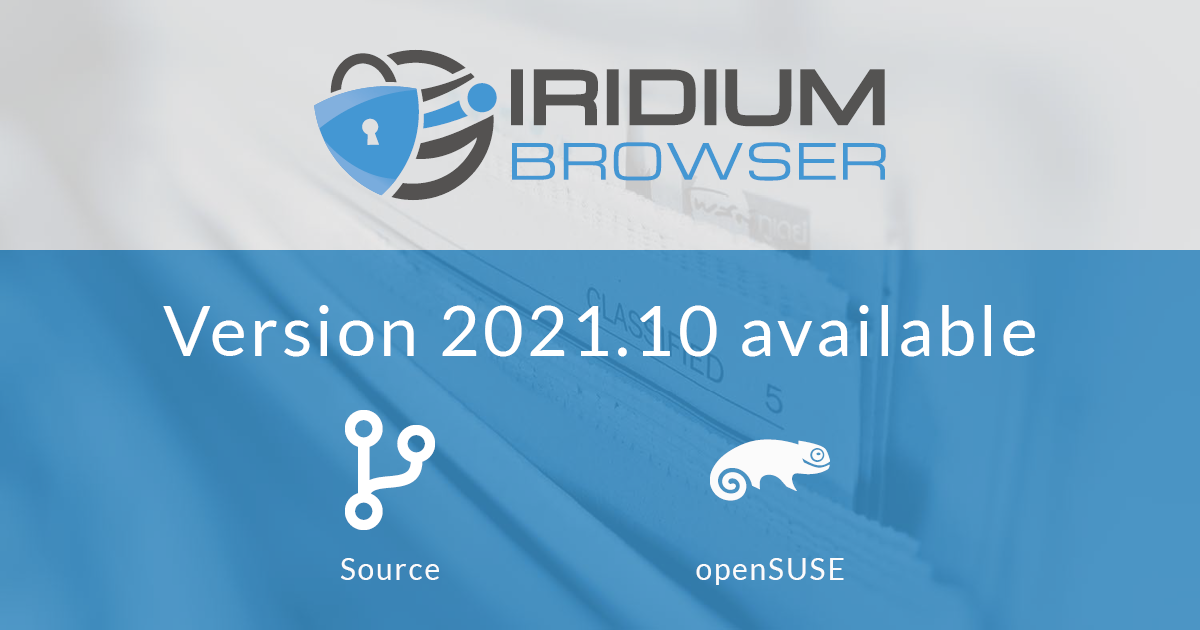
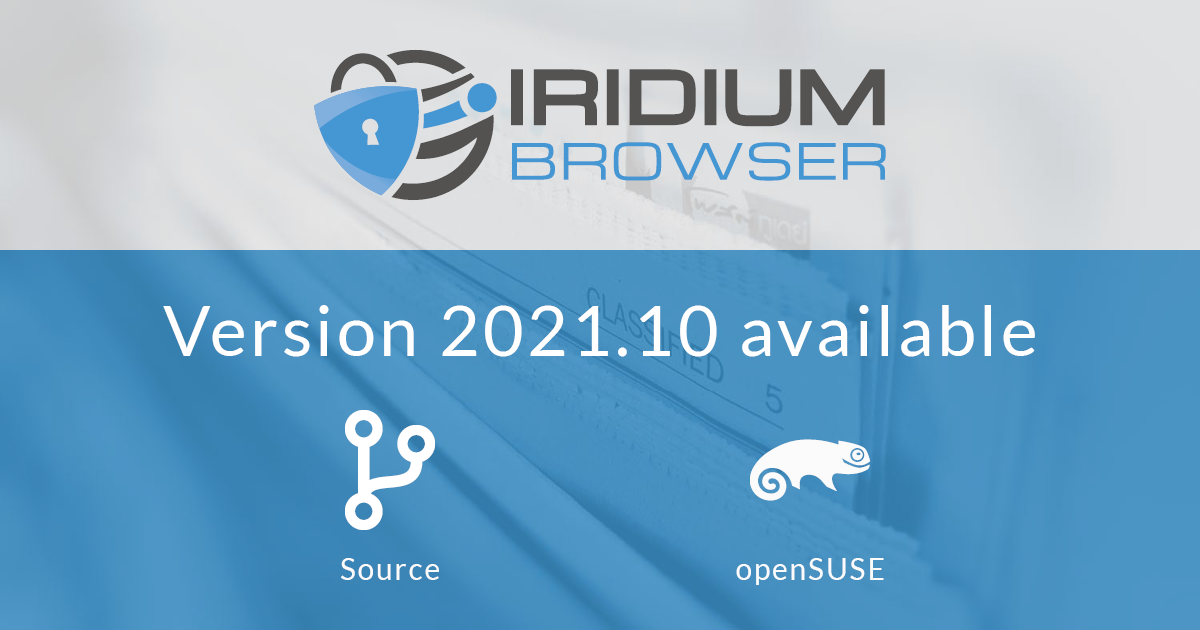
add structured-data image

Changed region(s): [[0.5858, 0.6937, 0.74, 0.8143], [0.5858, 0.8746, 0.74, 0.9349]]

diff --git a/collections/_posts/2021-11-05-version-2021.10-for-fedora-rhel.md b/collections/_posts/2021-11-05-version-2021.10-for-fedora-rhel.md
@@ -5,7 +5,7 @@ description: 		"Version 2021.10 has been made available for Fedora 34 & 35 and R
 date:	 			2021-11-05 12:00
 author:				TeamIridium
 categories:			news
-hotpic:				"/assets/images/hotpics/Iridium-hotpic-release-source-suse_2021-10.png"
+hotpic:				"/assets/images/hotpics/Iridium-hotpic-release-fedora-rhel-suse_2021-10.png"
 menu: 				no
 structured-data:	"news"
 ---
